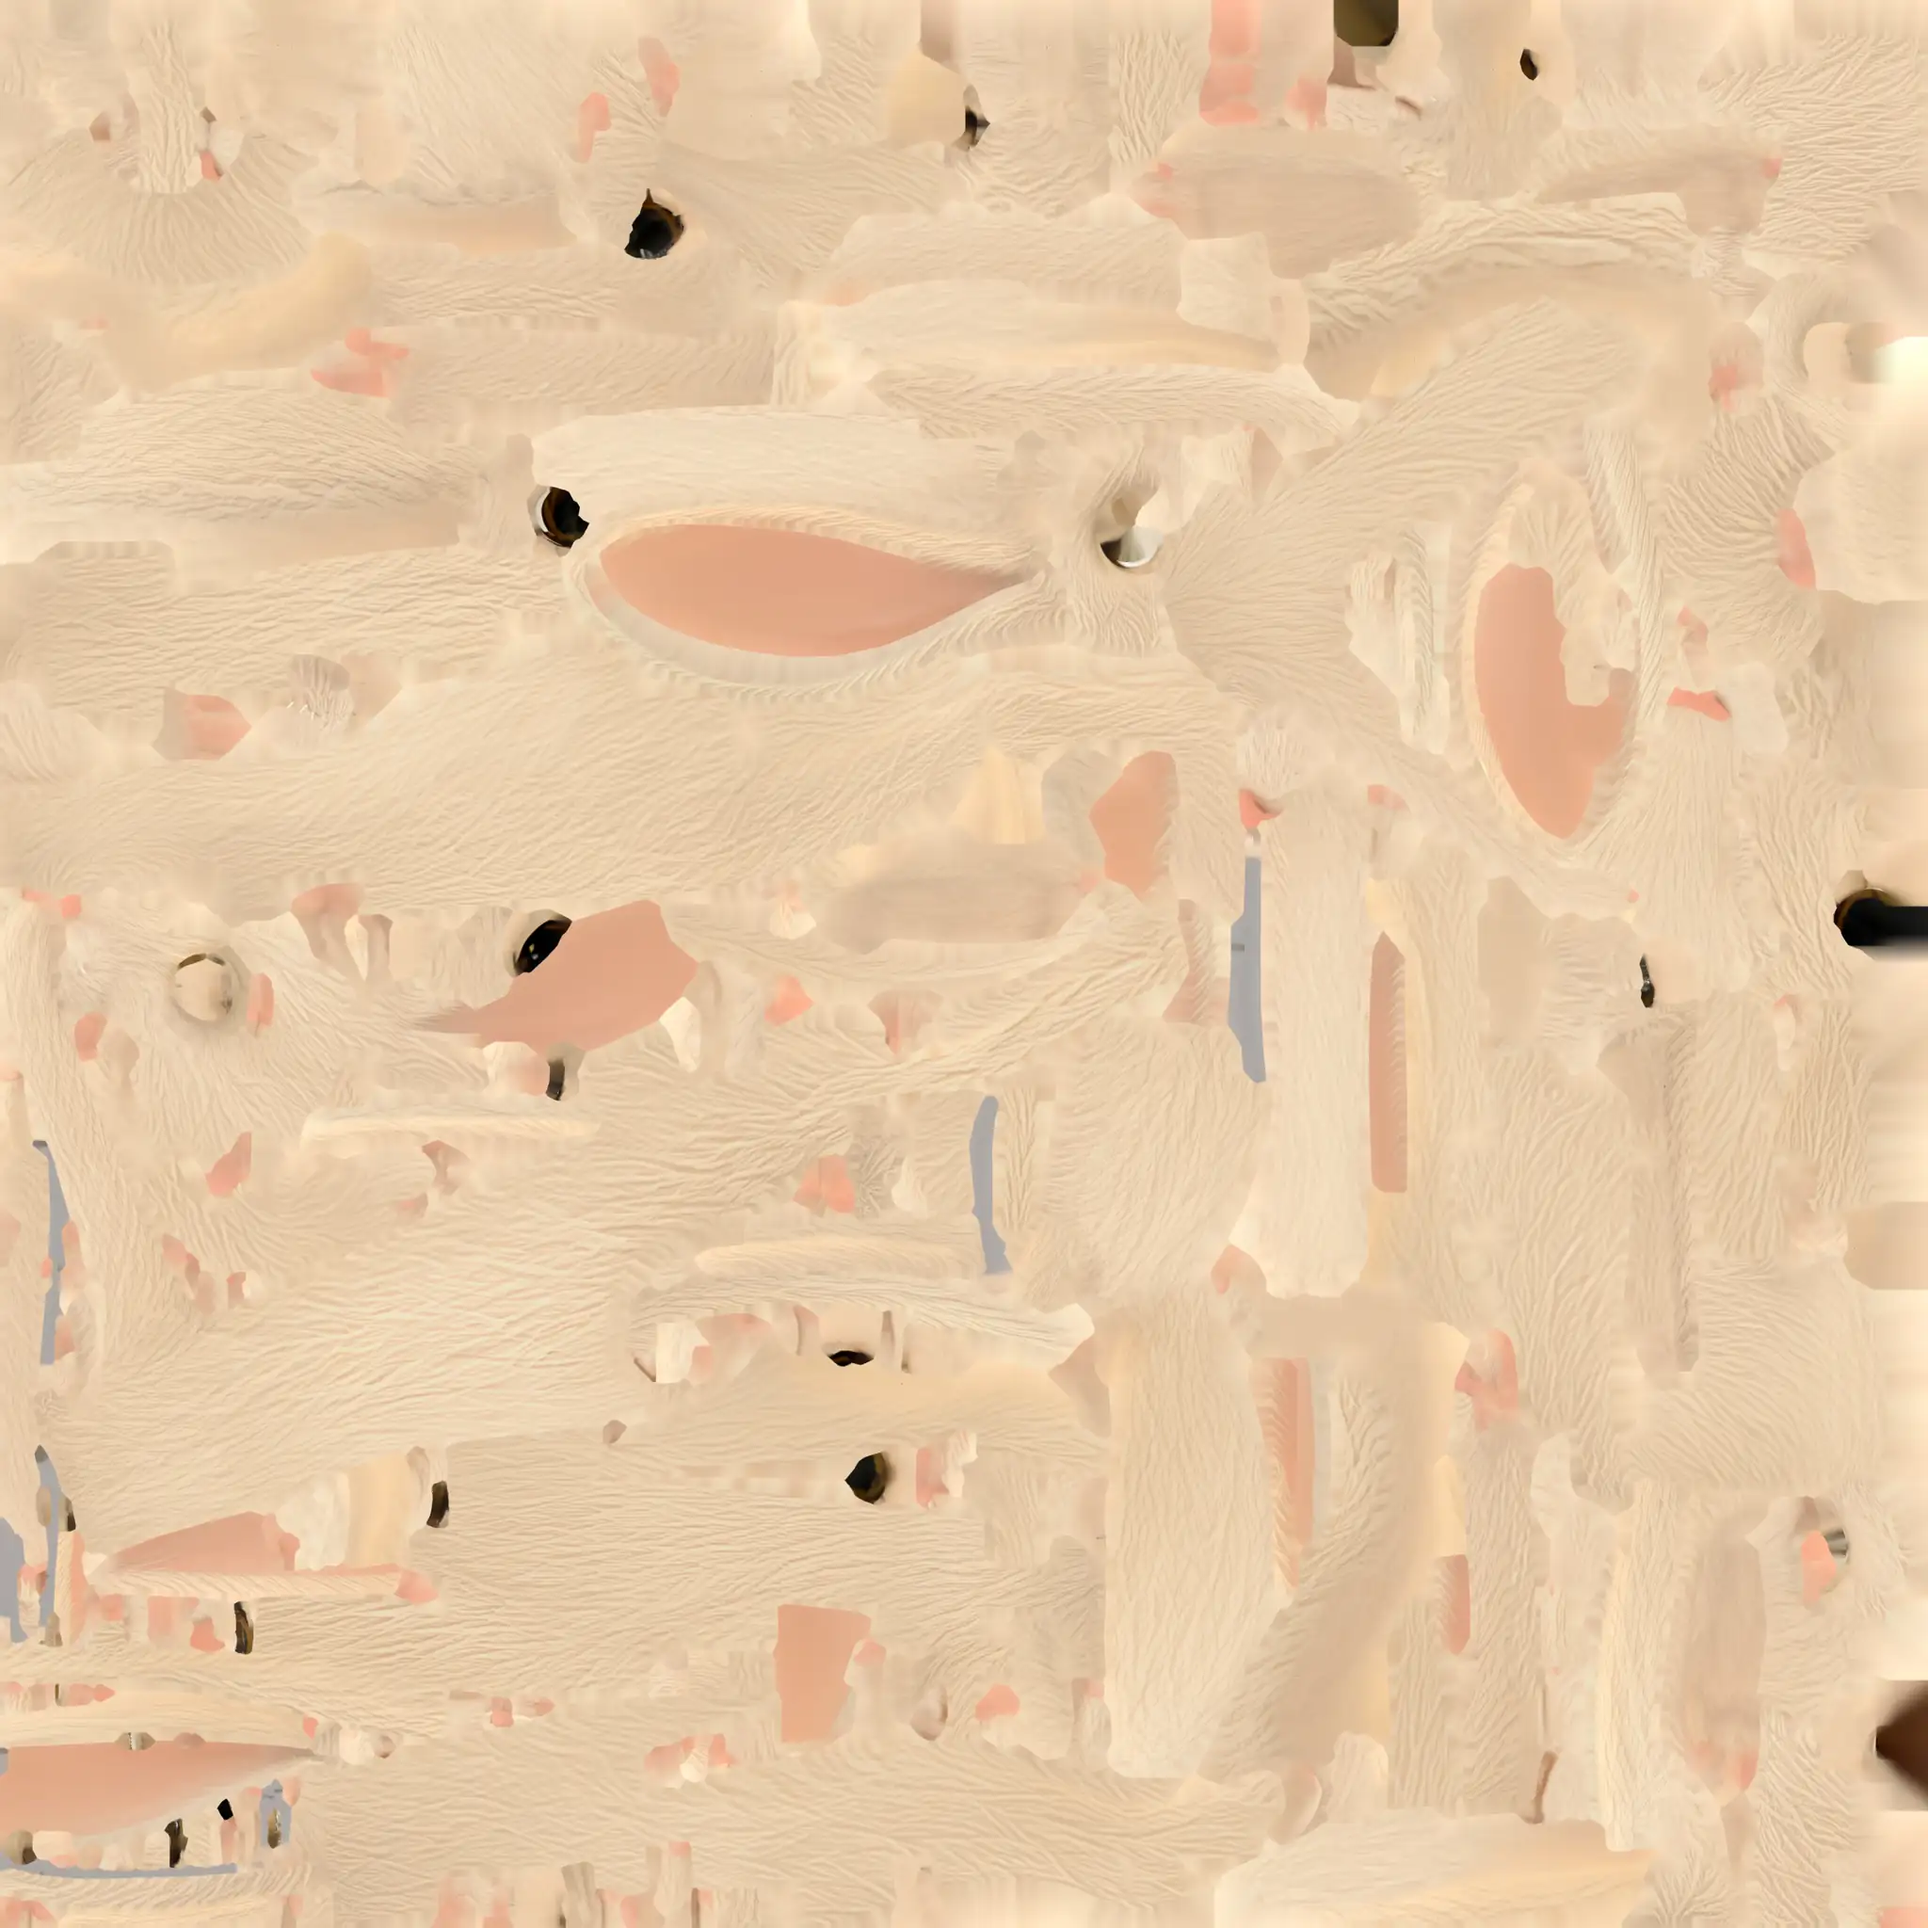
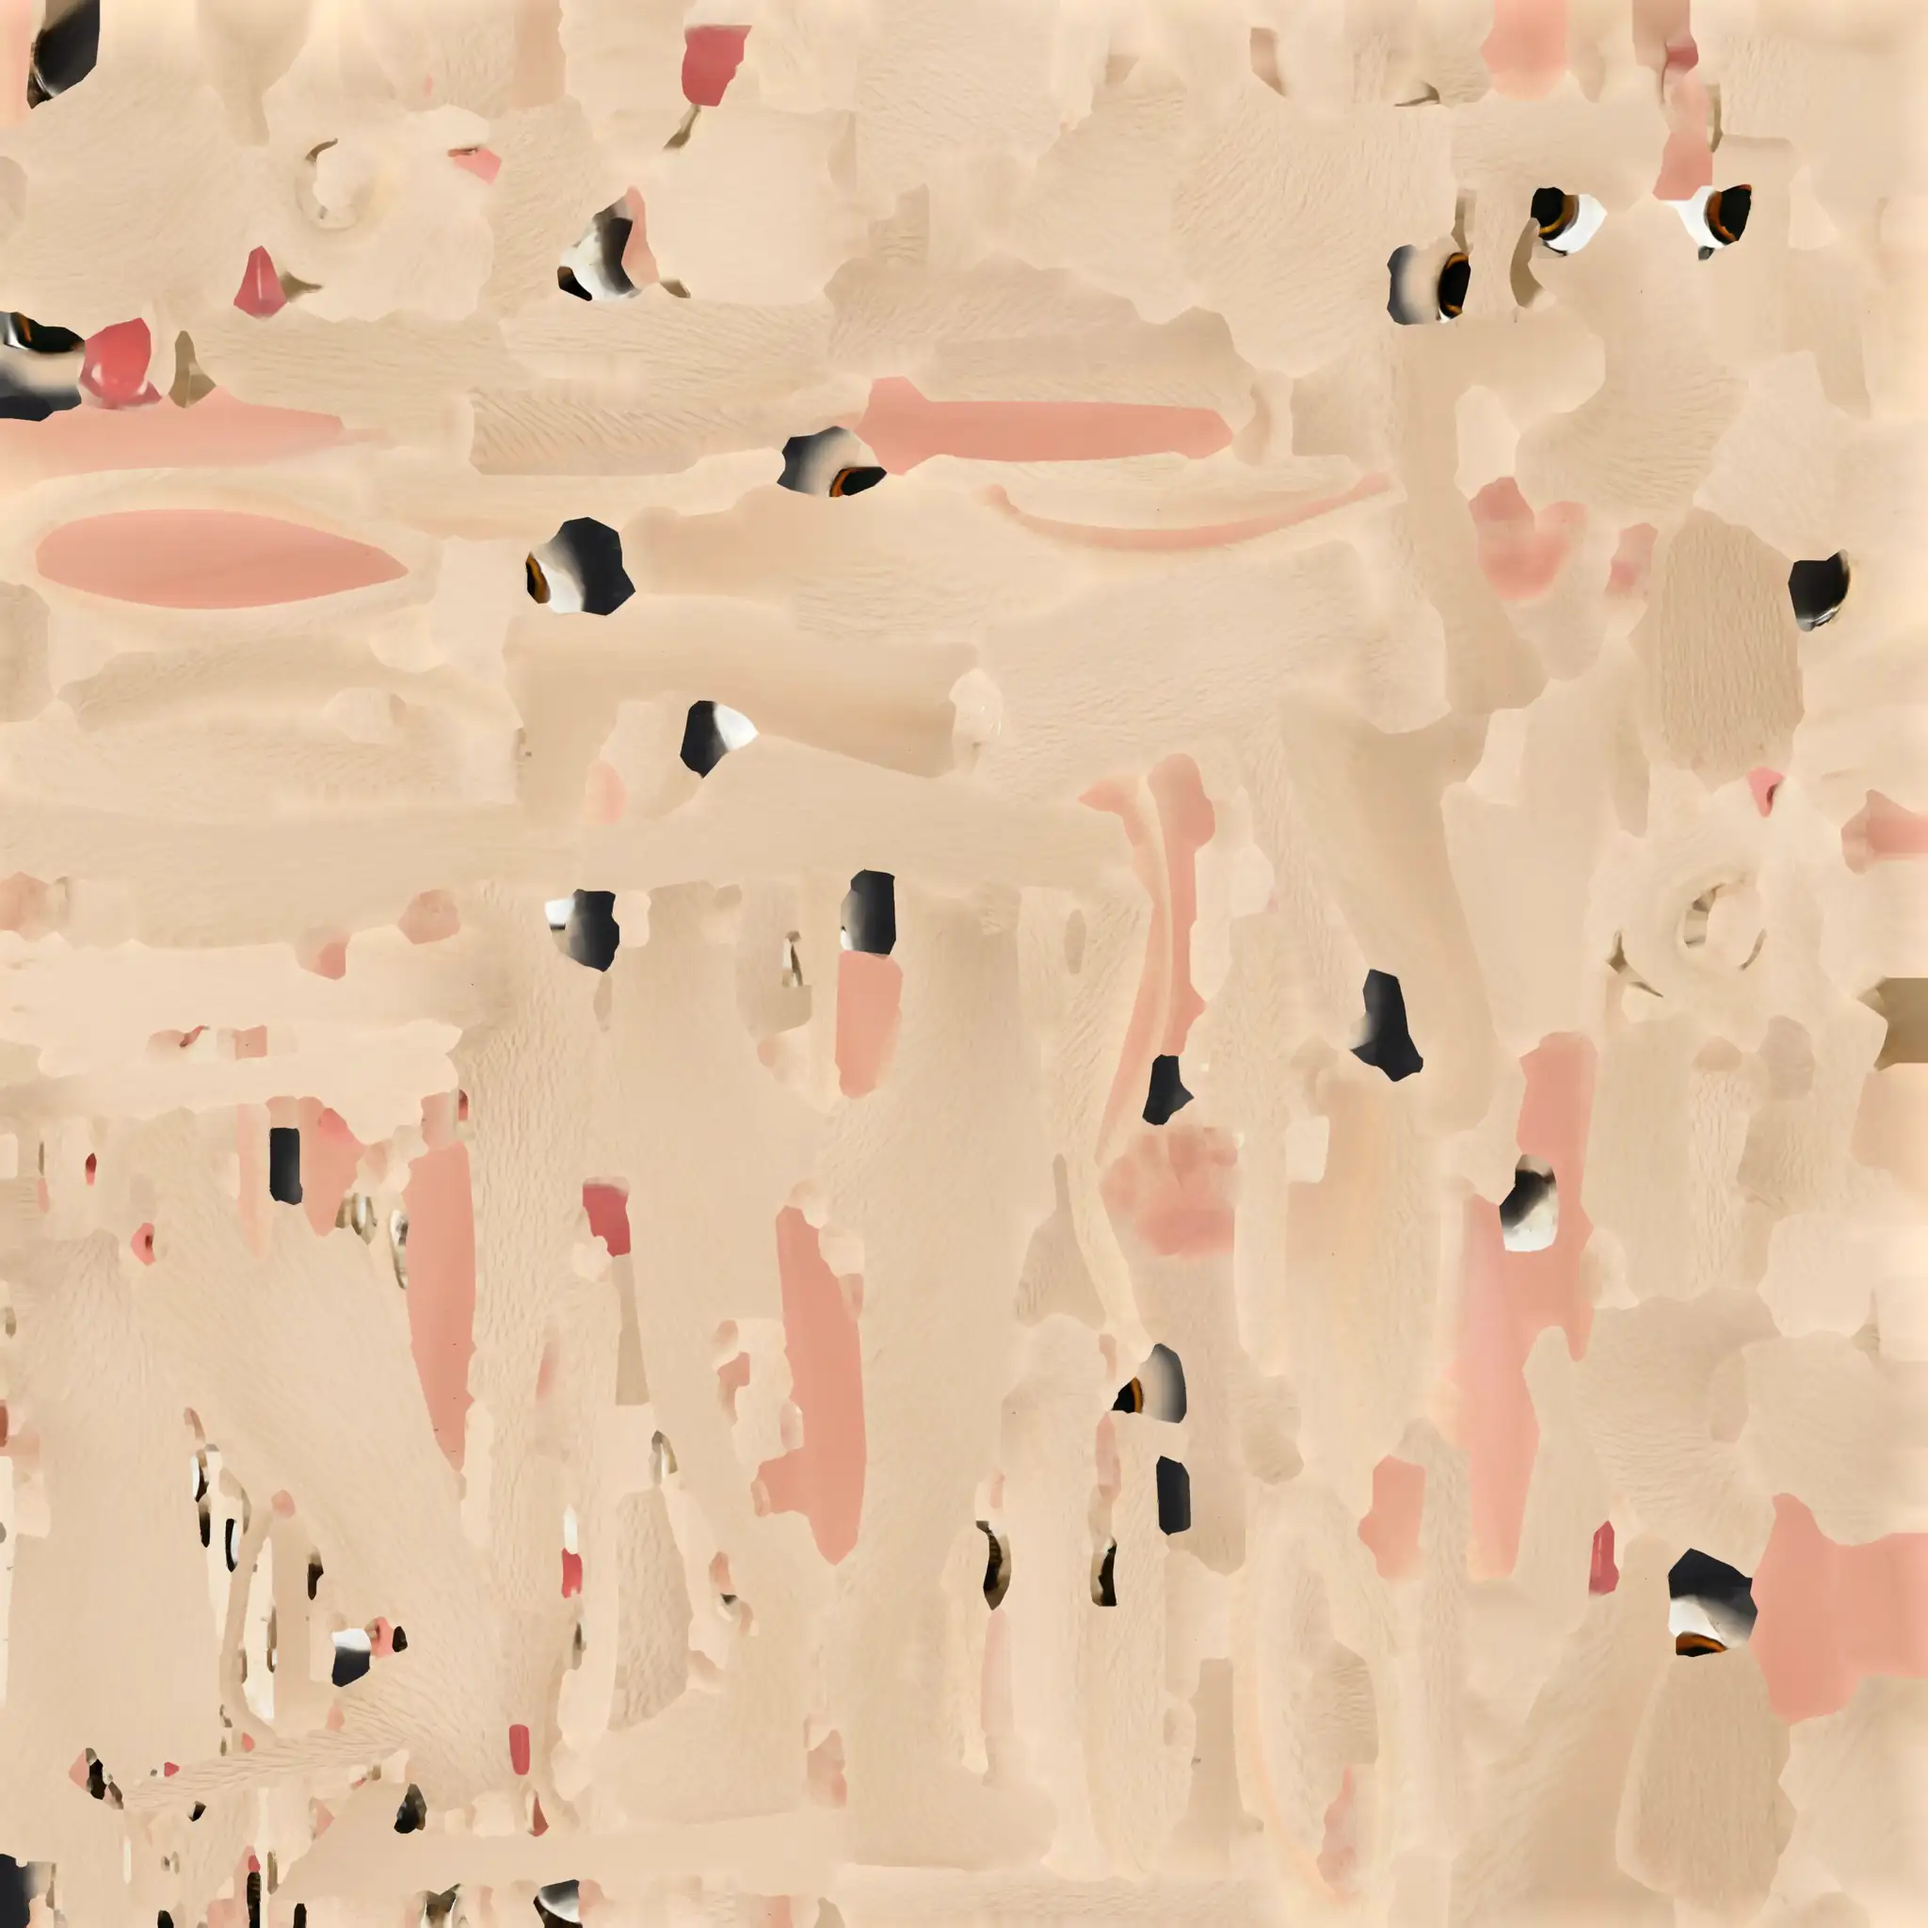
feat(models): color map and normal map of the new Tripo rabbit
tools/rabbit-maps.py writes rabbit-color.webp (2048 px, WebP quality 60)
from the base color map of the new FBX, with the cream fur moved to
Oklab L 0.87, C 0.045, h 70 for the hall light, and the pink, the brows,
the white, the black, and the eyeballs kept. It also writes
rabbit-normal.webp (each tilt limited to 0.2, 1024 px, the tilts times
4, cwebp quality 60) from the normal map of the FBX.

diff --git a/tools/rabbit-maps.py b/tools/rabbit-maps.py
@@ -1,0 +1,214 @@
+# Writes the color map and the normal map of the Tripo rabbit from the maps of its FBX (design 4.5,
+# assets/models/rabbit/README.md, "Color map" and "Normal map"). The color map `rabbit-color.webp`
+# scales the source image to 2048 pixels and moves each texel in Oklab by a step: the cream fur
+# goes to the fur of the rabbit of main in the hall light, and the pink, the brown brows, the
+# white, and the black keep their colors. Each texel takes a mix of the steps of the colors, by its
+# nearness to each color, so the blend between two colors stays smooth. The texels of the eyeballs
+# keep their colors: the script reads their triangles and texture points from the rig file
+# (`ownEyes` of the export). The normal map `rabbit-normal.webp` holds the tilts of the fur. The
+# output depends only on the input files and on cwebp 1.5.0.
+#
+# Usage: uv run --no-project --with numpy==2.5.4 --with pillow==13.0.0 python -I tools/rabbit-maps.py
+import json
+import os
+import struct
+import subprocess
+import sys
+import tempfile
+
+import numpy as np
+from PIL import Image, ImageDraw, ImageFilter
+
+SOURCE = 'assets/models/rabbit/tripo-p2/rabbit.fbm/rabbit_basecolor.jpg'
+RIG = 'assets/models/rabbit/tripo-hand/rabbit.rig.glb'
+FOLDER = 'assets/models/rabbit/tripo-hand/'
+OUT = FOLDER + 'rabbit-color.webp'
+SIZE = 2048
+QUALITY = 60
+#: The normal map of the source and the web copy of the normal map of the fur.
+NORMAL_SOURCE = 'assets/models/rabbit/tripo-p2/rabbit.fbm/rabbit_normal.jpg'
+NORMAL_OUT = FOLDER + 'rabbit-normal.webp'
+#: The size of the normal map, its largest tilt (x, y), and the gain of the stored tilts
+#: (`NORMAL_MAP_GAIN` of src/scene/fur.ts).
+NORMAL_SIZE = 1024
+NORMAL_LIMIT = 0.2
+NORMAL_GAIN = 4
+
+#: The Oklab lightness, chroma, and hue (degrees) of the cream fur of the map. The hall view of the
+#: app (the key light from the back, no fill light) is the target ("Color map" of the README).
+FUR = (0.87, 0.045, 70.0)
+#: The colors of the map (sRGB, the median texel of each region) and the colors that take their
+#: place. A target is an sRGB color, or ('oklch', L, C, h).
+ANCHORS = (
+    ((222, 189, 155), ('oklch', *FUR)),  # the cream fur
+    ((222, 161, 132), (222, 161, 132)),  # the pink inner ears, nose, and paw pads
+    ((255, 255, 255), (255, 255, 255)),  # the white lights
+    ((20, 14, 10), (20, 14, 10)),  # the black lines
+)
+#: The pairs of anchors with a blend between them in the map: the fur to the pink and to the
+#: white. Each pair gets two more anchors at 1/3 and 2/3 of the way, in Oklab, with the same blend
+#: of the new colors.
+BLENDS = ((0, 1), (0, 2))
+#: The Oklab distance at which the share of an anchor falls to 1/e.
+SPREAD = 0.06
+#: The smallest chroma of an anchor for the hue step (see move_texels()).
+MIN_CHROMA = 0.02
+#: The texels of the eyeballs and this many texels around them keep their colors.
+EYE_MARGIN = 4
+
+
+def linear(srgb):
+    c = np.asarray(srgb, np.float64) / 255.0
+    return np.where(c <= 0.04045, c / 12.92, ((c + 0.055) / 1.055) ** 2.4)
+
+
+def srgb8(lin):
+    c = np.clip(lin, 0.0, 1.0)
+    c = np.where(c <= 0.0031308, c * 12.92, 1.055 * c ** (1 / 2.4) - 0.055)
+    return np.round(c * 255.0).astype(np.uint8)
+
+
+def oklab(lin):
+    m1 = np.array([[0.4122214708, 0.5363325363, 0.0514459929],
+                   [0.2119034982, 0.6806995451, 0.1073969566],
+                   [0.0883024619, 0.2817188376, 0.6299787005]])
+    m2 = np.array([[0.2104542553, 0.7936177850, -0.0040720468],
+                   [1.9779984951, -2.4285922050, 0.4505937099],
+                   [0.0259040371, 0.7827717662, -0.8086757660]])
+    return np.cbrt(lin @ m1.T) @ m2.T
+
+
+def linear_of_oklab(lab):
+    m1 = np.array([[1.0, 0.3963377774, 0.2158037573],
+                   [1.0, -0.1055613458, -0.0638541728],
+                   [1.0, -0.0894841775, -1.2914855480]])
+    m2 = np.array([[4.0767416621, -3.3077115913, 0.2309699292],
+                   [-1.2684380046, 2.6097574011, -0.3413193965],
+                   [-0.0041960863, -0.7034186147, 1.7076147010]])
+    return ((lab @ m1.T) ** 3) @ m2.T
+
+
+def read_rig(path):
+    """Gives the triangles, the texture points, and the eyes (`ownEyes`) of the fur primitive of
+    the rig file."""
+    data = open(path, 'rb').read()
+    length = struct.unpack('<I', data[12:16])[0]
+    gltf = json.loads(data[20:20 + length])
+    binary = data[20 + length + 8:]
+    fur = gltf['meshes'][0]['primitives'][0]
+    if gltf['materials'][fur['material']]['name'] != 'fur' or 'TEXCOORD_0' not in fur['attributes']:
+        sys.exit(f'{path} has no fur primitive with texture points.')
+
+    def read(index, dtype, width):
+        accessor = gltf['accessors'][index]
+        view = gltf['bufferViews'][accessor['bufferView']]
+        start = view.get('byteOffset', 0) + accessor.get('byteOffset', 0)
+        count = accessor['count'] * width
+        return np.frombuffer(binary, dtype, count, start).reshape(-1, width)
+
+    kinds = {5121: np.uint8, 5123: np.uint16, 5125: np.uint32}
+    triangles = read(fur['indices'], kinds[gltf['accessors'][fur['indices']]['componentType']], 1)
+    points = read(fur['attributes']['TEXCOORD_0'], np.float32, 2)
+    eyes = gltf['asset']['extras'].get('ownEyes')
+    if not eyes:
+        sys.exit(f'{path} has no eyes of the mesh.')
+    return triangles.reshape(-1, 3), points, eyes
+
+
+def eye_mask(rig, size):
+    """Gives the texels of the eyeball triangles of the rig file, grown by EYE_MARGIN texels."""
+    triangles, points, eyes = rig
+    faces = [t for side in ('L', 'R') for t in eyes[side]['faces']]
+    mask = Image.new('L', (size, size), 0)
+    draw = ImageDraw.Draw(mask)
+    for t in faces:
+        corners = points[triangles[t]] * size
+        draw.polygon([(float(u), float(v)) for u, v in corners], fill=255)
+    mask = mask.filter(ImageFilter.MaxFilter(2 * EYE_MARGIN + 1))
+    return np.asarray(mask) > 0, len(faces)
+
+
+def target_lab(target):
+    """Gives the Oklab color of a target: an sRGB color, or ('oklch', L, C, h)."""
+    if target[0] == 'oklch':
+        _, lightness, chroma, hue = target
+        h = np.radians(hue)
+        return np.array([lightness, chroma * np.cos(h), chroma * np.sin(h)])
+    return oklab(linear(target))
+
+
+def move_texels(lab):
+    """Gives the Oklab image with each texel moved by the steps of the anchors."""
+    pairs = [(oklab(linear(source)), target_lab(target)) for source, target in ANCHORS]
+    for i, j in BLENDS:
+        for f in (1 / 3, 2 / 3):
+            pairs.append(tuple(a + f * (b - a) for a, b in zip(pairs[i], pairs[j])))
+    shares = []
+    steps = []
+    for anchor, target in pairs:
+        distance = np.linalg.norm(lab - anchor, axis=-1)
+        shares.append(np.exp(-((distance / SPREAD) ** 2)))
+        steps.append(target - anchor)
+    shares = np.stack(shares, axis=-1)
+    # A texel far from each color takes the step of its nearest color.
+    nearest = np.argmax(shares, axis=-1)
+    shares[np.arange(SIZE)[:, None], np.arange(SIZE)[None, :], nearest] += 1e-12
+    shares /= shares.sum(axis=-1, keepdims=True)
+    texel_chroma = np.hypot(lab[..., 1], lab[..., 2])
+    moved = lab.copy()
+    for k, ((anchor, _), step) in enumerate(zip(pairs, steps)):
+        # The hue step of an anchor shrinks with the chroma of the texel below the chroma of the
+        # anchor, so a gray or pale texel does not turn green or blue.
+        hue = np.minimum(1.0, texel_chroma / max(np.hypot(anchor[1], anchor[2]), MIN_CHROMA))
+        moved[..., 0] += shares[..., k] * step[0]
+        moved[..., 1] += shares[..., k] * hue * step[1]
+        moved[..., 2] += shares[..., k] * hue * step[2]
+    return moved
+
+
+def write_color_map():
+    image = Image.open(SOURCE).convert('RGB').resize((SIZE, SIZE), Image.LANCZOS)
+    lab = oklab(linear(np.asarray(image)))
+    eyes, count = eye_mask(read_rig(RIG), SIZE)
+    moved = move_texels(lab)
+    moved[eyes] = lab[eyes]
+    out = srgb8(linear_of_oklab(moved))
+    Image.fromarray(out).save(OUT, 'WEBP', quality=QUALITY, method=6)
+    changed = np.abs(out.astype(int) - np.asarray(image).astype(int)).max(axis=-1) > 2
+    print(f'{OUT}: {SIZE} x {SIZE}, {count} eye triangles kept ({int(eyes.sum())} texels), '
+          f'{changed.mean() * 100:.1f} % of the texels moved')
+
+
+def write_normal_map():
+    """Writes the normal map of the fur: each x, y tilt of the source limited to the length
+    NORMAL_LIMIT, a box scale to NORMAL_SIZE, then the tilts times NORMAL_GAIN in red and green,
+    255 in blue (the shader does not read it), and cwebp -q 60 -sharp_yuv -m 6. The limit comes
+    before the gain, so that no stored value clips."""
+    a = np.asarray(Image.open(NORMAL_SOURCE).convert('RGB')).astype(np.float64) / 255 * 2 - 1
+    t = a[..., :2].copy()
+    length = np.linalg.norm(t, axis=-1)
+    over = length > NORMAL_LIMIT
+    t[over] *= (NORMAL_LIMIT / length[over])[:, None]
+    k = t.shape[0] // NORMAL_SIZE
+    small = t.reshape(NORMAL_SIZE, k, NORMAL_SIZE, k, 2).mean(axis=(1, 3))
+    v = np.clip(small * NORMAL_GAIN, -1, 1)
+    rgb = np.zeros((NORMAL_SIZE, NORMAL_SIZE, 3), np.uint8)
+    rgb[..., :2] = np.round((v + 1) / 2 * 255).astype(np.uint8)
+    rgb[..., 2] = 255
+    with tempfile.TemporaryDirectory() as folder:
+        png = os.path.join(folder, 'normal.png')
+        Image.fromarray(rgb).save(png)
+        subprocess.run(['cwebp', '-quiet', '-q', '60', '-sharp_yuv', '-m', '6', png, '-o', NORMAL_OUT],
+                       check=True)
+    print(f'{NORMAL_OUT}: {NORMAL_SIZE} x {NORMAL_SIZE}, {over.mean() * 100:.2f} % of the source '
+          f'tilts limited, mean normal {np.round(a.reshape(-1, 3).mean(axis=0), 3).tolist()}, '
+          f'{int((a[..., 2] < 0).sum())} texels with z below 0')
+
+
+def main():
+    write_color_map()
+    write_normal_map()
+
+
+if __name__ == '__main__':
+    main()
